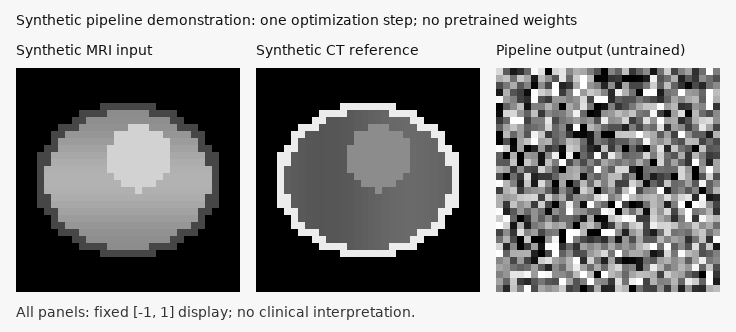
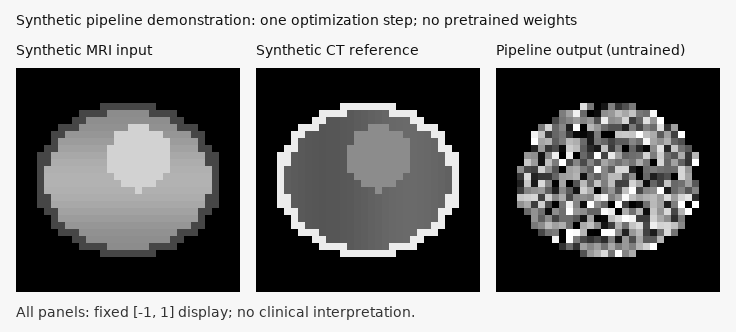
small modifications

Changed region(s): [[0.6562, 0.1807, 1.0, 0.9036]]

diff --git a/inference_25d.py b/inference_25d.py
@@ -10,7 +10,7 @@ from safetensors.torch import load_file
 
 from examples.synthetic_demo import save_comparison
 from loader_25d import MonaiNifti25DDataset, get_monai_nifti_transforms_25d
-from train_accelerate_25d import build_model, compute_masked_metrics, edm_sample, load_config
+from train_accelerate_25d import build_model, compute_masked_metrics, edm_sample, load_config, mask_generated_ct
 
 
 def main():
@@ -33,12 +33,13 @@ def main():
     torch.set_num_threads(2)
     torch.manual_seed(args.seed)
     cfg = load_config(args.config)
+    use_body_mask = cfg["use_body_mask"] or args.mask is not None
     entry = {"mr": str(args.mr), "ct": str(args.ct or args.mr)}
     if args.mask:
         entry["mask"] = str(args.mask)
-    dataset = MonaiNifti25DDataset([entry], get_monai_nifti_transforms_25d("val", cfg["use_body_mask"]),
+    dataset = MonaiNifti25DDataset([entry], get_monai_nifti_transforms_25d("val", use_body_mask),
                                   target_size=cfg["image_size"], num_slices=cfg["num_slices"],
-                                  stride=cfg["slice_stride"], use_body_mask=cfg["use_body_mask"], mode="val")
+                                  stride=cfg["slice_stride"], use_body_mask=use_body_mask, mode="val")
     if args.patch_index >= len(dataset):
         parser.error(f"patch-index must be less than {len(dataset)}")
     patch = dataset[args.patch_index]
@@ -50,12 +51,16 @@ def main():
     kwargs = {key: cfg[key] for key in ["sigma_min", "sigma_max", "sigma_data", "rho", "S_churn",
               "S_min", "S_max", "S_noise", "cfg_scale", "pfgmpp", "D", "use_cfg_plus_plus",
               "cfg_rescale_factor", "use_dynamic_cfg", "cfg_scale_min", "cfg_scale_max"]}
-    prediction = edm_sample(model, mr, num_steps=args.steps or cfg["num_sample_steps"], mask=mask, **kwargs)
+    # A supplied mask can black out output even if mask conditioning was disabled in training.
+    sampling_mask = mask if cfg["use_body_mask"] else None
+    prediction = edm_sample(model, mr, num_steps=args.steps or cfg["num_sample_steps"], mask=sampling_mask, **kwargs)
+    prediction = mask_generated_ct(prediction, mask)
     if not torch.isfinite(prediction).all():
         raise RuntimeError("Sampler produced nonfinite values")
     center = cfg["num_slices"] // 2
     panels = [("MRI input", mr[0, 0, center]), ("Predicted CT", prediction[0, 0, center])]
     report = {"seed": args.seed, "patch_index": args.patch_index, "shape": list(prediction.shape),
+              "background": "-1 outside the supplied body mask; 0 after mapping to [0, 1]",
               "weight_type": "raw checkpoint weights; EMA weights not restored", "metrics": {}}
     if args.ct:
         ct = patch["ct"].unsqueeze(0).to(args.device)

diff --git a/tools/check_25d.py b/tools/check_25d.py
@@ -5,7 +5,9 @@ import tempfile
 import unittest
 from pathlib import Path
 
-from train_accelerate_25d import config, load_config, save_config
+import torch
+
+from train_accelerate_25d import config, edm_sample, edm_sample_tta, load_config, mask_generated_ct, save_config
 
 
 class ConfigurationChecks(unittest.TestCase):
@@ -25,6 +27,40 @@ class ConfigurationChecks(unittest.TestCase):
             path.write_text(json.dumps({"batch_szie": 1}))
             with self.assertRaisesRegex(ValueError, "batch_szie"):
                 load_config(path)
+
+
+class GeneratedBackgroundChecks(unittest.TestCase):
+    def test_mask_preserves_foreground_and_maps_background_to_zero(self):
+        prediction = torch.tensor([-0.5, 0.25, 0.75, 1.5])
+        mask = torch.tensor([0, 1, 0, 1])
+        result = mask_generated_ct(prediction, mask)
+        self.assertTrue(torch.equal(result[mask > 0], prediction[mask > 0]))
+        self.assertTrue(torch.equal(((result + 1) / 2)[mask == 0], torch.zeros(2)))
+        self.assertIs(mask_generated_ct(prediction, None), prediction)
+
+    def test_sampler_outputs_and_tta_mask_background_without_changing_trajectory(self):
+        class ZeroModel(torch.nn.Module):
+            def forward(self, x, mri, r, mask=None):
+                return torch.zeros_like(x)
+
+        model = ZeroModel()
+        mr = torch.zeros(1, 1, 2, 4, 4)
+        mask = torch.ones_like(mr)
+        mask[..., :2] = 0
+        for with_stats in [False, True]:
+            torch.manual_seed(42)
+            unmasked = edm_sample(model, mr, num_steps=2, sigma_max=1,
+                                  return_trajectory_stats=with_stats)
+            torch.manual_seed(42)
+            masked = edm_sample(model, mr, num_steps=2, sigma_max=1, mask=mask,
+                                return_trajectory_stats=with_stats)
+            if with_stats:
+                self.assertEqual(unmasked[1], masked[1])
+                unmasked, masked = unmasked[0], masked[0]
+            self.assertTrue(torch.equal(masked[mask > 0], unmasked[mask > 0]))
+            self.assertTrue(torch.equal(masked[mask == 0], torch.full_like(masked[mask == 0], -1)))
+        tta = edm_sample_tta(model, mr, num_steps=2, sigma_max=1, mask=mask)
+        self.assertTrue(torch.equal(tta[mask == 0], torch.full_like(tta[mask == 0], -1)))
 
 
 if __name__ == "__main__":

diff --git a/examples/synthetic_demo.py b/examples/synthetic_demo.py
@@ -94,6 +94,7 @@ def main():
     prediction = edm_sample(model, mr, num_steps=2, sigma_min=0.002, sigma_max=1.0,
                             sigma_data=cfg["sigma_data"], pfgmpp=True, D=cfg["D"], mask=mask)
     assert prediction.shape == ct.shape and torch.isfinite(prediction).all()
+    assert torch.equal(prediction[mask == 0], torch.full_like(prediction[mask == 0], -1))
     panels = [("Synthetic MRI input", mr[0, 0, 2]), ("Synthetic CT reference", ct[0, 0, 2]),
               ("Pipeline output (untrained)", prediction[0, 0, 2])]
     save_comparison(args.output_dir / "comparison.png", panels,
@@ -105,7 +106,8 @@ def main():
     save_config(cfg, args.output_dir / "config.json")
     report = {"purpose": "Pipeline check, not trained synthesis results", "seed": 42,
               "shape": list(prediction.shape), "loss": float(loss.detach()),
-              "finite_gradients": True, "finite_prediction": True, "optimization_steps": 1,
+              "finite_gradients": True, "finite_prediction": True, "masked_background_is_black": True,
+              "optimization_steps": 1,
               "sampling_steps": 2, "sampling_sigma_max": 1.0}
     (args.output_dir / "report.json").write_text(json.dumps(report, indent=2) + "\n")
     print(json.dumps(report, indent=2))

diff --git a/train_accelerate_25d.py b/train_accelerate_25d.py
@@ -811,6 +811,16 @@ def edm_sample_tta(
 # Sampling
 # =============================================================================
 
+def mask_generated_ct(prediction: torch.Tensor, mask: Optional[torch.Tensor]) -> torch.Tensor:
+    """Set generated background to -1, which maps to black/0 in the [0, 1] display.
+
+    Apply only to the final output; preserve foreground values and the sampling trajectory.
+    """
+    if mask is None:
+        return prediction
+    return torch.where(mask.to(device=prediction.device) > 0, prediction, -1.0)
+
+
 @torch.no_grad()
 def edm_sample(
     model: nn.Module,
@@ -949,7 +959,7 @@ def edm_sample(
             score_norms.append(d_cur.norm().item())
             update_norms.append(update.norm().item())
     
-    result = x_next.float()
+    result = mask_generated_ct(x_next.float(), mask)
     
     if return_trajectory_stats:
         stats = {

diff --git a/README.md b/README.md
@@ -6,7 +6,7 @@ Implementation by [Lloydkamole](https://github.com/Lloydkamole). The implementat
 
 ![MRI input, predicted CT, and reference CT for three sampled validation center slices](docs/assets/synthrad_validation.png)
 
-*Logged validation comparison from epoch 166 of `20260627_104352_pfgm_fir_25d`, selected by the highest recorded validation-sample PSNR. Rows: MRI, predicted CT, reference CT. Images were independently normalized by TensorBoard, so this preview does not use a shared HU window. Data source: SynthRAD2023 / SynthRAD2025, as reported by the author; individual case IDs were not logged. Dataset attribution and noncommercial terms apply. See [results and provenance](docs/results.md).*
+*Logged validation comparison from epoch 166 of `20260627_104352_pfgm_fir_25d`, selected by the highest recorded validation-sample PSNR. Rows: MRI, predicted CT, reference CT. Synthesized CT backgrounds are blacked out using the actual body masks, recovered by exact MRI/reference-CT pixel matching. Foreground pixels retain TensorBoard's original independent scaling, so this preview does not use a shared HU window. The three matched cases are from SynthRAD2023; patient identifiers are not included. Dataset attribution and noncommercial terms apply. See [results and provenance](docs/results.md).*
 
 ## What the code implements
 
@@ -45,7 +45,7 @@ python -m pip install torch==2.8.0 torchvision==0.23.0 \
 python -m pip install -r requirements.txt
 ```
 
-For an NVIDIA GPU environment, replace the CPU installation command with a build compatible with your driver, for example:
+For a CUDA-enabled GPU environment, replace the CPU installation command with a build compatible with your driver, for example:
 
 ```bash
 python -m pip install torch==2.8.0 torchvision==0.23.0 \
@@ -147,6 +147,8 @@ python inference_25d.py \
   --device cuda --output-dir inference_output_25d
 ```
 
+When a body mask is available, generated CT voxels outside it are set to **-1** in the model's output scale, which maps to **0 (black)** in `[0, 1]`. This final-output processing also applies to training/validation previews and flip-augmented sampling; foreground values and sampler dynamics are preserved. Without a mask, the output is left unmasked.
+
 `--ct` is optional; provide it for a reference comparison and center-slice PSNR/SSIM/MAE. `--mask` is optional. `--patch-index`, `--steps`, and `--seed` select the patch and sampling settings. CPU execution is available with `--device cpu`. Output includes `prediction.safetensors` with shape `[1, 1, D, H, W]`, `comparison.png` with a fixed `[-1, 1]` display, and `metrics.json`. Weights load strictly; sharded FSDP checkpoints and automatic EMA restoration are unsupported.
 
 Metrics clamp the predicted center slice to `[-1, 1]`, map images to `[0, 1]`, and use data range 1. With a mask, PSNR/SSIM are computed on images whose background is zeroed; background pixels remain in their calculation. MAE is averaged within the mask. These scores are normalized-intensity metrics, not HU errors, and are not interchangeable with official SynthRAD challenge metrics. There is no complete-volume or held-out test-set evaluation script in this public scope.
@@ -170,7 +172,7 @@ python -m tools.summarize_runs_25d \
 
 ## Hardware and status
 
-The tiny 0.11M-parameter CPU example and one-epoch training check were run successfully. Full-model GPU training was not verified in this session: the NVIDIA driver was unavailable. The showcase run logs a peak allocated GPU memory of **18,531.5 MiB (about 18.1 GiB)** with bf16, gradient checkpointing and batch size 10. This is a recorded allocation, not a minimum VRAM requirement or total device usage; the GPU model and launch settings were not logged. Reduce batch size if needed and measure on your hardware.
+The tiny 0.11M-parameter CPU example and one-epoch training check were run successfully. Full-model GPU training was not verified in this session: the GPU driver was unavailable. The showcase run logs a peak allocated GPU memory of **18,531.5 MiB (about 18.1 GiB)** with bf16, gradient checkpointing and batch size 10. This is a recorded allocation, not a minimum VRAM requirement or total device usage; the GPU model and launch settings were not logged. Reduce batch size if needed and measure on your hardware.
 
 Volume caching holds the full prepared dataset in RAM for each training process. Memory needs depend on volume sizes and process count. bf16 requires hardware support; use `mixed_precision: "no"` when unavailable.
 

diff --git a/ATTRIBUTION.md b/ATTRIBUTION.md
@@ -26,9 +26,9 @@ The author identifies the sample source as **SynthRAD2023 and SynthRAD2025** and
 
 SynthRAD2023 data and SynthRAD2025 centers A/B/C/E data are distributed under [CC BY-NC 4.0](https://creativecommons.org/licenses/by-nc/4.0/). **SynthRAD2025 Center D has separate, challenge-limited terms and must not be assumed shareable under CC BY-NC.** Consult the actual source terms for the files you use; the code license does not override dataset restrictions.
 
-The currently configured prepared pool has folder prefixes consistent with 163 SynthRAD2023 Task-1 brain cases (centers A/B/C) and 141 SynthRAD2025 Task-1 head-and-neck cases (centers A/C). These counts describe the current local pool, not a verified historical split. No Center D prefix was found in this pool. Historical image logs lack case identifiers, so the exact edition/center membership of individual showcase tiles cannot be reconstructed.
+The currently configured prepared pool has folder prefixes consistent with 163 SynthRAD2023 Task-1 brain cases (centers A/B/C) and 141 SynthRAD2025 Task-1 head-and-neck cases (centers A/C). These counts describe the current local pool, not a verified historical split. No Center D prefix was found in this pool. Historical image logs lack case identifiers. During the background-masking update, all three showcase MRI/reference-CT tiles were matched exactly to source center slices from SynthRAD2023 Task-1 brain cases (centers A/C). Their source masks were then used to black out predicted backgrounds. Patient identifiers remain private, and the rest of the historical cohort/split remains unverified.
 
-`docs/assets/synthrad_validation.png` is derived from an existing TensorBoard validation grid. Changes: labels, event selection, explanatory caption and attribution added; original independent per-image normalization retained. No raw NIfTI data, patient IDs or trained weights are distributed. Its event provenance is recorded in [showcase_provenance.json](docs/showcase_provenance.json). Dataset terms continue to apply to source-derived image panels.
+`docs/assets/synthrad_validation.png` is derived from an existing TensorBoard validation grid. Changes: labels, event selection, explanatory caption and attribution added; generated background set to black using exact source body masks; foreground pixels and original independent per-image normalization retained. No raw NIfTI data, patient IDs or trained weights are distributed. Its event provenance is recorded in [showcase_provenance.json](docs/showcase_provenance.json). Dataset terms continue to apply to source-derived image panels.
 
 `examples/assets/synthetic_pipeline.png` is generated entirely by the included analytic phantom script, without patient images or pretrained weights. It is a pipeline demonstration, not a model performance example.
 

diff --git a/docs/validation.md b/docs/validation.md
@@ -56,3 +56,11 @@ The available environment's torchvision image extension emitted a missing CUDA-l
 A fresh dependency installation, Python 3.10/3.11 execution, full-model GPU training/inference, bf16 GPU numerical behavior, multi-GPU DDP, FSDP, distributed EMA, long training, and evaluation on the full real-data cohort were not run. NVIDIA-SMI could not communicate with the driver and PyTorch reported no CUDA devices. CPU smoke checks do not establish those paths' correctness or performance.
 
 No dataset was downloaded, no full real-data training was started, and no assets were uploaded or pushed. Historical metrics remain sample-level logged observations with the limitations in [results.md](results.md).
+
+## Generated-background update
+
+`python -m tools.check_25d` passed four tests after the update. The additional checks verify that masked-out output voxels become -1 (exactly 0 in [0,1]), foreground values remain unchanged, the no-mask output is preserved, trajectory statistics remain unchanged for a mask-independent model, and flip-augmented outputs retain black backgrounds. The synthetic example was rerun successfully and explicitly checks its masked background. Its original single-update loss remains 0.44548917.
+
+Patch inference was rerun with the synthetic checkpoint, both with mask conditioning enabled and with conditioning disabled but an explicit output mask supplied. Saved prediction tensors were checked: every masked-out voxel maps to exactly 0 in [0,1].
+
+The three historical showcase cases were matched against source MRI and reference CT center slices with zero mean absolute uint8 pixel error for all six comparisons. Their actual source masks were applied to generated tiles only; foreground pixels and the recorded historical scores were preserved. The preview was replotted with this postprocessing disclosed in its caption and provenance.

diff --git a/docs/repository_audit.md b/docs/repository_audit.md
@@ -29,7 +29,7 @@ The preceding README declared MIT but no project license text was found in reach
 
 ## Scientific behavior and reproducibility
 
-The model layers, loss, perturbation/prior functions, metric formulas, sampler, guidance calculations and data transforms are retained. Configuration/launch changes remove the embedded workstation data path, allow JSON overrides, reject unknown keys, fail explicitly on unsupported resume, and save new runs' resolved configurations and patient split manifests. New inference wraps the existing model, loader, sampler and metric helpers.
+The model layers, loss, perturbation/prior functions, metric formulas, sampler dynamics, guidance calculations and data transforms are retained. At the author's request, final generated outputs now set masked-out voxels to -1 (0 after mapping to [0,1]); this does not change foreground predictions or training calculations. Configuration/launch changes remove the embedded workstation data path, allow JSON overrides, reject unknown keys, fail explicitly on unsupported resume, and save new runs' resolved configurations and patient split manifests. New inference wraps the existing model, loader, sampler and metric helpers.
 
 Remaining gaps are documented rather than replaced with assumptions: historical preprocessing/CT inverse scaling, dataset membership and source revision; sampled rather than full-dataset generation metrics; absent historical EMA checkpoint state; no exact checkpoint for the highest-PSNR event; unverified FSDP and full-model GPU execution; patch-only inference; loader error fallbacks and pre-orientation slice indexing; and gradient monitoring occurring after gradients have been zeroed in the existing training loop.
 

diff --git a/docs/results.md b/docs/results.md
@@ -8,7 +8,7 @@ The selected showcase is `20260627_104352_pfgm_fir_25d`, logged step 165 (**epoc
 
 ![Selected logged validation comparison](assets/synthrad_validation.png)
 
-The preview uses the original TensorBoard tile scaling (`normalize=True, scale_each=True`), with labels and attribution added. It does not use a shared HU/intensity window. Rows: MRI / prediction / reference; columns: three sampled validation center slices. The author identifies the source as SynthRAD2023/SynthRAD2025 and authorized inclusion. Exact case IDs were not logged. See [asset provenance](showcase_provenance.json) and [dataset attribution](../ATTRIBUTION.md).
+The preview retains original TensorBoard foreground tile scaling (`normalize=True, scale_each=True`), with labels and attribution added. Generated CT pixels outside the actual body masks are set to black. Source masks were recovered by exact uint8 MRI and reference-CT matching against RAS-oriented, resized source center slices: all three MRI and CT matches have zero mean absolute pixel error. Foreground pixels are unchanged. It does not use a shared HU/intensity window. Rows: MRI / prediction / reference; columns: three sampled validation center slices, now identified as SynthRAD2023 cases without including patient identifiers. The author authorized inclusion. Historical logged scores are retained; masking this figure does not represent a new model evaluation. See [asset provenance](showcase_provenance.json) and [dataset attribution](../ATTRIBUTION.md).
 
 ## Comparison at each run's best PSNR event
 

diff --git a/examples/README.md b/examples/README.md
@@ -8,7 +8,7 @@ python -m examples.synthetic_demo
 
 The script creates four normalized, aligned analytic phantoms, loads 4 × 32 × 32 patches through the actual NIfTI loader, computes the PFGM++ training loss, checks finite gradients, takes one optimizer step, and samples with a tiny 3D spatial-frequency/deformable-attention model on CPU. Inspect `examples/generated/report.json` and `examples/generated/comparison.png`.
 
-The comparison labels the input, synthetic CT reference, and **untrained pipeline output**. All panels use a fixed `[-1, 1]` window. This proves the code path executes; one optimization step does not produce meaningful trained CT synthesis. The demonstration uses two sampler steps and sigma_max 1 for an inexpensive check, rather than the full training sampler's settings.
+The comparison labels the input, synthetic CT reference, and **untrained pipeline output**. All panels use a fixed `[-1, 1]` window; the generated CT background is -1 outside its body mask and therefore displays as black. This proves the code path executes; one optimization step does not produce meaningful trained CT synthesis. The demonstration uses two sampler steps and sigma_max 1 for an inexpensive check, rather than the full training sampler's settings.
 
 To exercise the complete trainer, including patient splitting, EMA, validation, TensorBoard and best/final checkpoint saves:
 
